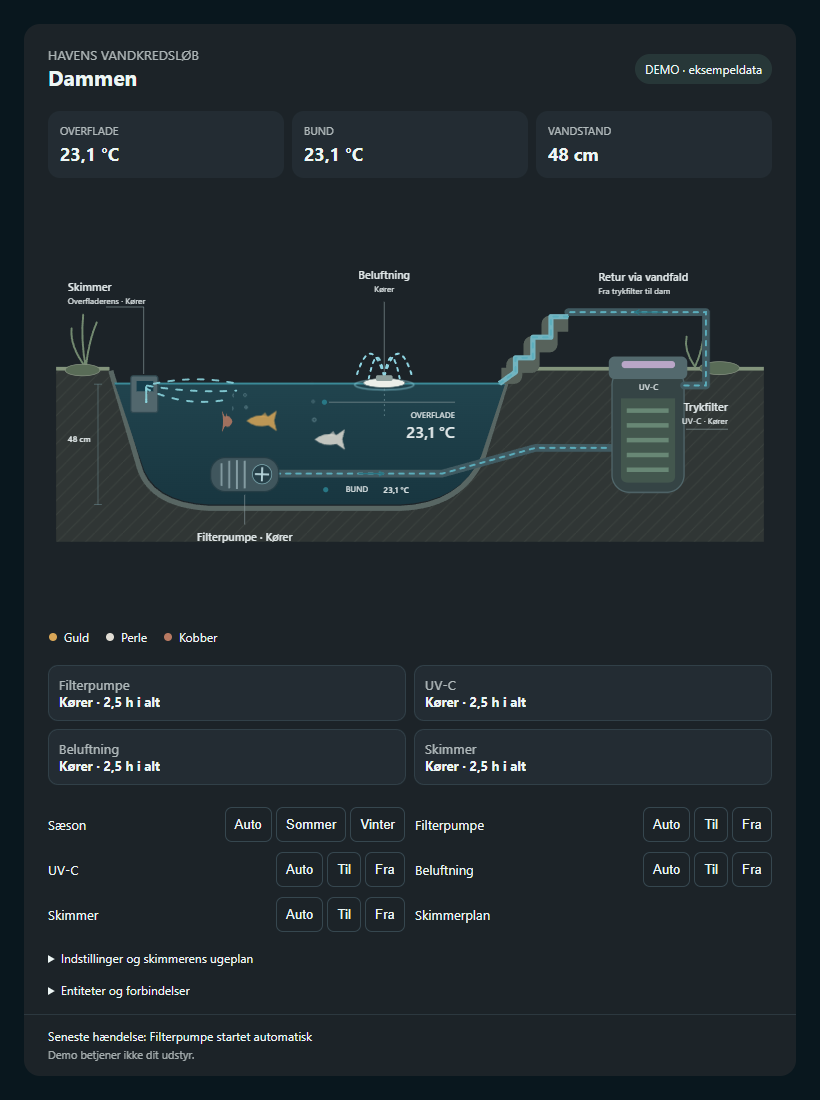
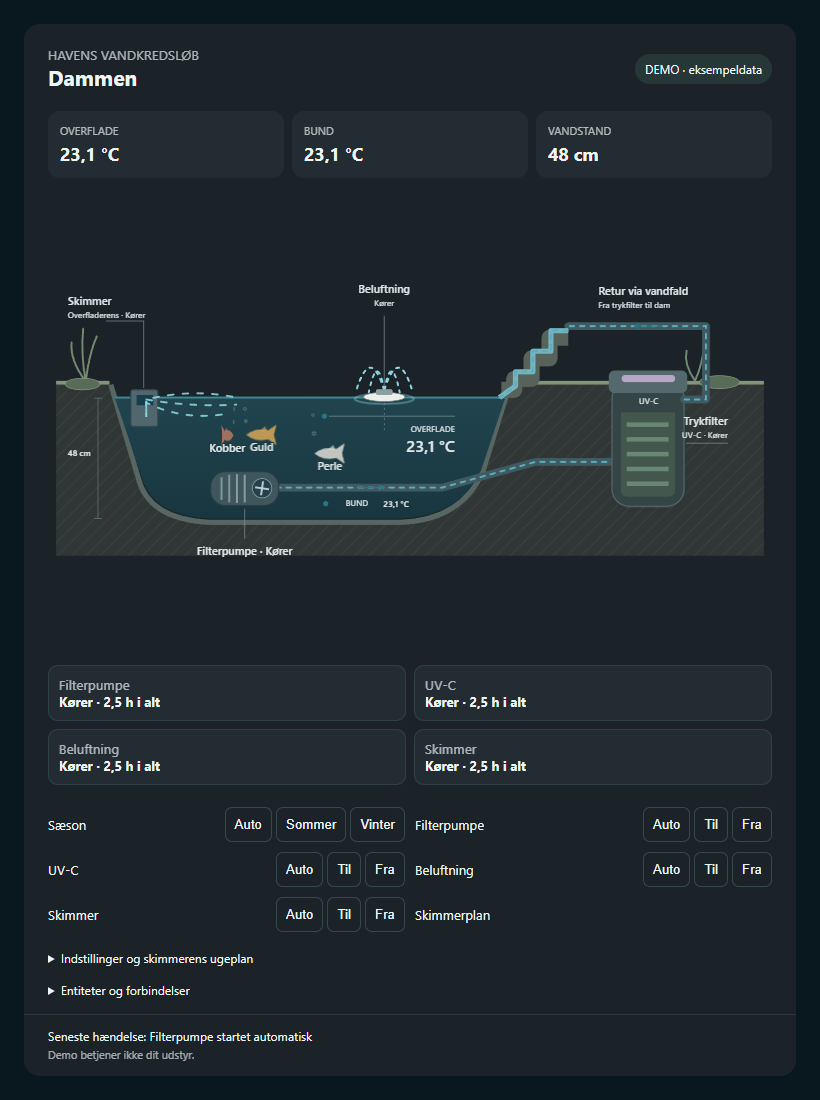
Show names beside swimming fish without mirrored text

diff --git a/pond-flow-card.js b/pond-flow-card.js
@@ -59,7 +59,7 @@ class PondFlowCard extends HTMLElement {
       <title>${esc(fish.name || 'Fisk')}</title><g class="fish-swim">
       <path d="M-24 0Q-10-12 10-7L23-16L19 0L23 16L10 7Q-10 12-24 0Z" fill="${esc(fish.color)}" opacity=".85"/><path d="M-3-6L5-13L9-6" fill="${esc(fish.color)}" opacity=".65"/>
       ${this.config.fish_bubbles === false ? '' : '<g class="fish-bubbles" aria-hidden="true"><circle class="fish-bubble" cx="-23" cy="-2" r="2.5"/><circle class="fish-bubble" cx="-23" cy="-2" r="1.8"/><circle class="fish-bubble" cx="-23" cy="-2" r="2"/></g>'}
-      </g></g>`).join('');
+      </g>${this.config.fish_names === false || !fish.name ? '' : `<g class="fish-name-swim" aria-hidden="true"><text class="fish-name" x="0" y="25" text-anchor="middle">${esc(fish.name)}</text></g>`}</g>`).join('');
   }
   set hass(hass) {
     this._hass = hass;
@@ -115,11 +115,12 @@ class PondFlowCard extends HTMLElement {
       .controls{padding:4px 24px 18px;display:grid;grid-template-columns:1fr 1fr;gap:10px}.control{display:flex;justify-content:space-between;align-items:center;gap:8px;font-size:13px}.control select{max-width:115px;padding:8px;border:1px solid #7196a550;border-radius:8px;background:var(--card-background-color,#193340);color:inherit}.status{padding:12px 24px;border-top:1px solid #7196a530;font-size:12px;line-height:1.6}.error{color:#f9a99b}.note{opacity:.65;font-size:11px}@media(max-width:420px){.controls{grid-template-columns:1fr}.metrics{padding:12px}.metric strong{font-size:15px}}
       [data-info]{cursor:pointer}.diagram-value{font-size:15px;font-weight:600;fill:#fff}.equipment{display:grid;grid-template-columns:repeat(2,minmax(0,1fr));gap:8px;padding:8px 24px 18px}.equipment button{font:inherit;text-align:left;color:inherit;background:#7396a415;border:1px solid #7196a530;border-radius:10px;padding:10px;cursor:pointer}.equipment small{display:block}.equipment strong{font-size:13px}.controls button{padding:9px;border-radius:7px;border:1px solid #7196a550;color:inherit;background:transparent;cursor:pointer}.controls button[aria-pressed=true]{background:#438b8b55}.options{display:flex;gap:4px;flex-wrap:wrap}.control{flex-wrap:wrap}.rotor{transform-box:fill-box;transform-origin:center;animation:spin 1.8s linear infinite}@keyframes spin{to{transform:rotate(360deg)}}@media(prefers-reduced-motion:reduce){.rotor{animation:none}}details{padding:0 24px 16px;font-size:12px;overflow-wrap:anywhere}
       .fish-swim{animation:swim var(--swim-duration,22s) linear infinite;animation-delay:var(--swim-delay,0s);transform-box:view-box;transform-origin:0 0}@keyframes swim{0%{transform:translateX(50px) scaleX(1)}46%{transform:translateX(-60px) scaleX(1)}50%{transform:translateX(-60px) scaleX(-1)}96%{transform:translateX(50px) scaleX(-1)}100%{transform:translateX(50px) scaleX(1)}}
-      .fish-bubble{fill:none;stroke:#b1d8e0;stroke-width:1.2;opacity:0;animation:fish-bubble 5.5s linear infinite;animation-delay:var(--swim-delay,0s)}.fish-bubble:nth-child(2){animation-delay:calc(var(--swim-delay,0s) - 1.8s)}.fish-bubble:nth-child(3){animation-delay:calc(var(--swim-delay,0s) - 3.6s)}@keyframes fish-bubble{0%{transform:translate(0,0);opacity:0}12%{opacity:.65}75%{opacity:.35}100%{transform:translate(-5px,var(--bubble-rise,-60px));opacity:0}}.fish-legend{display:flex;flex-wrap:wrap;gap:8px 16px;padding:0 24px 12px;font-size:12px}.fish-legend span{display:flex;align-items:center;gap:6px}.fish-legend svg{width:10px;height:10px;min-height:0;flex:none}
+      .fish-bubble{fill:none;stroke:#b1d8e0;stroke-width:1.2;opacity:0;animation:fish-bubble 5.5s linear infinite;animation-delay:var(--swim-delay,0s)}.fish-bubble:nth-child(2){animation-delay:calc(var(--swim-delay,0s) - 1.8s)}.fish-bubble:nth-child(3){animation-delay:calc(var(--swim-delay,0s) - 3.6s)}@keyframes fish-bubble{0%{transform:translate(0,0);opacity:0}12%{opacity:.65}75%{opacity:.35}100%{transform:translate(-5px,var(--bubble-rise,-60px));opacity:0}}
       .skimmer-current path{fill:none;stroke:#8ad3dc;stroke-width:3;stroke-linecap:round;opacity:.15}.skimmer-current.moving path{opacity:.9;stroke-dasharray:9 14;animation:intake 1.5s linear infinite}.skimmer-current.moving path:nth-child(2){animation-delay:-.5s}.skimmer-current.moving path:nth-child(3){animation-delay:-1s}@keyframes intake{to{stroke-dashoffset:-46}}
       @container(max-width:560px){header{padding:16px 14px 8px;gap:8px;flex-wrap:wrap}.metrics{padding:10px 14px}.equipment{padding:8px 14px 14px}.controls{grid-template-columns:1fr;padding:4px 14px 16px}.control{flex-wrap:nowrap}.options{justify-content:flex-end}.status{padding:12px 14px}details{padding:0 14px 14px}.metric{padding:10px 8px}.metric strong{font-size:16px}.badge{max-width:100%;overflow-wrap:anywhere}}
       .fountain{display:none}.fountain.running{display:inline}.fountain path{fill:none;stroke:#8ed4e1;stroke-width:3;stroke-linecap:round;stroke-dasharray:5 8;animation:spray 1.2s linear infinite}.fountain path:nth-child(2n){animation-delay:-.6s}.fountain .ripple{fill:none;stroke:#8ed4e1;stroke-width:2;opacity:.6;animation:pond-ripple 2.4s ease-in-out infinite}@keyframes spray{to{stroke-dashoffset:-26}}@keyframes pond-ripple{50%{opacity:.2;stroke-width:4}}
-      @media(prefers-reduced-motion:reduce){.fish-swim,.fish-bubble,.skimmer-current.moving path,.fountain path,.fountain .ripple{animation:none}}
+      .fish-name-swim{animation:fish-name-swim var(--swim-duration,22s) linear infinite;animation-delay:var(--swim-delay,0s);pointer-events:none}@keyframes fish-name-swim{0%,100%{transform:translateX(50px)}46%,50%{transform:translateX(-60px)}96%{transform:translateX(50px)}}.pond-diagram .fish-name{font-size:17px;font-weight:600;fill:var(--primary-text-color,#e1e8e9);stroke:#183640;stroke-width:3px;paint-order:stroke fill;stroke-linejoin:round}
+      @media(prefers-reduced-motion:reduce){.fish-swim,.fish-name-swim,.fish-bubble,.skimmer-current.moving path,.fountain path,.fountain .ripple{animation:none}}
     </style>
     <ha-card>
       <header data-section="header"><div><small>HAVENS VANDKREDSLØB</small><h2>${esc(this.config.title || 'Dammen')}</h2></div><span class="badge">${demo ? 'DEMO · eksempeldata' : val('status','')}</span></header>
@@ -193,7 +194,6 @@ class PondFlowCard extends HTMLElement {
 <path class="leader" d="M343 535V581"/><text x="343" y="606" data-info="pump_running" text-anchor="middle" class="label">Filterpumpe · ${esc(operating('pump_running'))}</text>
 
 </svg>
-      ${this.config.fish_names === false || !this.fish().some(fish=>fish.name) ? '' : `<div class="fish-legend" data-section="fish-legend">${this.fish().filter(fish=>fish.name).map(fish=>`<span><svg aria-hidden="true" viewBox="0 0 10 10"><circle cx="5" cy="5" r="4" fill="${esc(fish.color)}"/></svg>${esc(fish.name)}</span>`).join('')}</div>`}
       <div class="equipment" data-section="equipment">${[['pump_running','Filterpumpe','pump_hours'],['uv_running','UV-C','uv_hours'],['aerator_running','Beluftning','aerator_hours'],['skimmer_running','Skimmer','skimmer_hours']].map(([key,label,hours]) => `<button data-info="${key}"><small>${label}</small><strong>${esc(operating(key))} · ${val(hours,'2,5 h')} i alt</strong></button>`).join('')}</div>
       ${[...binaryKeys].some(key => this.state(key) && this.state(key).state !== 'off') ? `<div class="equipment alarms" data-section="alarms" role="status">${[...binaryKeys].filter(key => this.state(key) && this.state(key).state !== 'off').map(key => `<button data-info="${key}" class="error"><small>${esc(labels[key])}</small><strong>${['unknown','unavailable'].includes(this.state(key).state) ? 'Status utilgængelig' : 'Aktiv'}</strong></button>`).join('')}</div>` : ''}
       <div class="controls" data-section="controls">${controls.map(([key,label]) => {

diff --git a/README.md b/README.md
@@ -22,9 +22,9 @@ fish_bubbles: true
 fish_names: true
 ```
 
-Hvert punkt tilføjer én fisk. `color` kan være en hex-farve eller en gyldig CSS-farve, fx `orange`. Et unikt `id` bevarer fisken ved omrokering af listen. Navnene vises under diagrammet med farvemarkering og som tekst ved hover på fisken. Fiskene placeres automatisk og svømmer i forskellig takt. Små bobler stiger og fader ud ved overfladen; de illustrerer liv i dammen og er ikke en måling.
+Hvert punkt tilføjer én fisk. `color` kan være en hex-farve eller en gyldig CSS-farve, fx `orange`. Et unikt `id` bevarer fisken ved omrokering af listen. Navnene står direkte ved fiskene i vandet og følger deres bevægelse uden at blive spejlvendt, når fiskene vender. Fiskene placeres automatisk og svømmer i forskellig takt. Små bobler stiger og fader ud ved overfladen; de illustrerer liv i dammen og er ikke en måling.
 
-`fish_bubbles: false` skjuler bobler, `fish_names: false` skjuler navnelisten, og `fish: []` fjerner fiskene. Uden en `fish`-liste vises de to standardfisk. Konfigurationen gemmes i dashboardet og kræver ingen ændring af ESPHome. Reduceret bevægelse stopper både fisk og bobler.
+`fish_bubbles: false` skjuler bobler, `fish_names: false` skjuler navnene ved fiskene, og `fish: []` fjerner fiskene. Uden en `fish`-liste vises de to standardfisk. Konfigurationen gemmes i dashboardet og kræver ingen ændring af ESPHome. Reduceret bevægelse stopper både fisk og bobler.
 
 Version 0.4.2 bevarer SVG-elementer og CSS-animationer ved nye sensormålinger, loghændelser og alarmer. Kun ændrede tekster og attributter opdateres. Fiskene fortsætter gennem hele svømmecyklussen, og vandflow, springvand og rotor genstarter ikke ved uvedkommende dataopdateringer. Åbne indstillinger og fokus bevares også.
 
